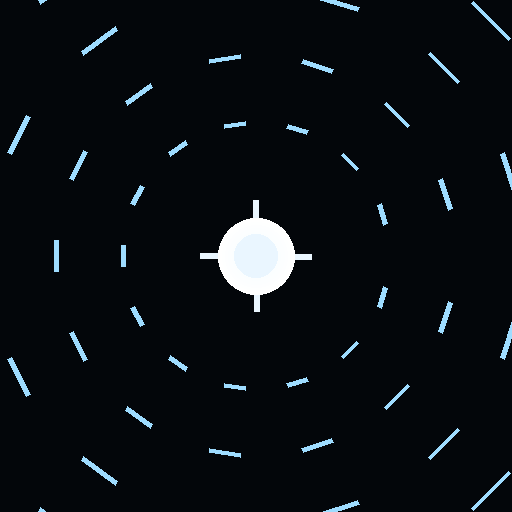
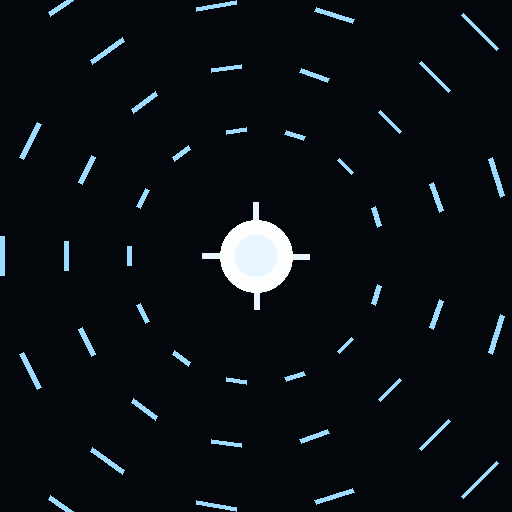
Add files via upload

diff --git a/index.html b/index.html
@@ -43,7 +43,7 @@
     padding:9px 10px; font-family:inherit; font-size:0.85rem; outline:none;
   }
   .field input:focus{ border-color:var(--g); box-shadow:0 0 8px var(--g-glow); }
-  .field small{ display:block; color:#2a5a3a; font-size:0.65rem; margin-top:3px; }
+  .field small{ display:block; color:#4a7a9a; font-size:0.65rem; margin-top:3px; }
   .section-tag{ font-size:0.65rem; color:var(--g); border-top:1px dashed var(--g-dim); padding-top:10px; margin:16px 0 10px; letter-spacing:2px; opacity:0.8;}
   #setup-btn{
     width:100%; margin-top:8px; background:transparent; border:1px solid var(--g);
@@ -116,7 +116,7 @@
   #chat-panel.open{ transform:translateX(0); }
   #chat-log{ flex:1; overflow-y:auto; padding:14px; font-size:0.78rem; line-height:1.5; }
   .msg{ margin-bottom:12px; }
-  .msg.user{ color:#6fffb0; }
+  .msg.user{ color:#7fd4ff; }
   .msg.vecna{ color:var(--g); }
   .msg .who{ display:block; font-size:0.62rem; color:var(--g-dim); letter-spacing:1px; margin-bottom:2px;}
   #chat-input-row{ display:flex; border-top:1px solid var(--g-dim); }
@@ -135,7 +135,7 @@
   #sec-panel button{ background:transparent; border:1px solid var(--g-dim); color:var(--g); padding:8px; font-family:inherit; font-size:0.72rem; cursor:pointer; width:100%; margin-bottom:8px; }
   #sec-panel button:hover{ border-color:var(--g); box-shadow:0 0 10px var(--g-glow); }
   #event-log{ flex:1; overflow-y:auto; font-size:0.68rem; border-top:1px dashed var(--g-dim); padding-top:8px; }
-  .evt{ margin-bottom:8px; color:#4fdc8a; }
+  .evt{ margin-bottom:8px; color:#6fc4e8; }
   .evt .t{ color:var(--g-dim); display:block; font-size:0.6rem; }
   .evt.alert{ color:var(--red); }
 
@@ -300,7 +300,10 @@
 
   <!-- Security panel -->
   <div id="sec-panel">
-    <h2>SEGURANÇA</h2>
+    <div style="display:flex; justify-content:space-between; align-items:center; margin-bottom:10px;">
+      <h2 style="margin:0;">SEGURANÇA</h2>
+      <button id="sec-panel-close" style="background:transparent; border:1px solid var(--g-dim); color:var(--g); width:30px; height:30px; border-radius:50%; cursor:pointer; font-size:1rem;">✕</button>
+    </div>
     <div class="row"><span>Status</span><strong id="sec-panel-status">DESARMADO</strong></div>
     <button id="arm-toggle-btn">ARMAR SISTEMA</button>
     <button id="check-now-btn">VERIFICAR CÂMERA AGORA</button>
@@ -310,6 +313,10 @@
 
   <!-- Chat panel -->
   <div id="chat-panel">
+    <div style="display:flex; justify-content:space-between; align-items:center; padding:10px 14px; border-bottom:1px solid var(--g-dim);">
+      <span style="font-size:0.75rem; letter-spacing:2px;">CHAT</span>
+      <button id="chat-panel-close" style="background:transparent; border:1px solid var(--g-dim); color:var(--g); width:30px; height:30px; border-radius:50%; cursor:pointer; font-size:1rem;">✕</button>
+    </div>
     <div id="chat-log"></div>
     <div id="chat-input-row">
       <input id="chat-input" placeholder="Fale com o VECNA...">
@@ -519,14 +526,14 @@
     say(`Estou online, ${OWNER_CALL}. Sistema de segurança em espera. O que você precisa?`);
   }
 
-  /* ============== ORB ANIMATION (stylized globe + geometric rings, canvas-only, no bitmaps) ============== */
+  /* ============== ORB ANIMATION (stylized wireframe skull + geometric rings, canvas-only, no bitmaps) ============== */
   let orbCtx, orbCanvas, orbT = 0, orbEnergy = 0.65;
 
   function seededRand(i){ return (Math.sin(i*12.9898)*43758.5453) % 1; }
-
-  // --- Procedural "city light" point cloud approximating a couple of glowing landmasses ---
-  // (Not a real map — a stylized suggestion of continents, since we avoid heavy map textures.)
   function seededRand2(i){ const x = Math.sin(i*78.233)*43758.5453; return x - Math.floor(x); }
+
+  // Nuvem de pontos "luzes de cidade" aproximando alguns continentes (estilizado, não é
+  // um mapa real — pra manter leve, sem textura de imagem pesada).
   function buildLandPoints(){
     const blobs = [
       { lat:42, lon:-95, latSpread:26, lonSpread:34, count:280 },  // "América do Norte"
@@ -541,7 +548,6 @@
         seed++;
         const rLat = (seededRand2(seed*2.13)-0.5)*2;
         const rLon = (seededRand2(seed*3.71)-0.5)*2;
-        // bias toward center for a denser core (like city clusters)
         const fall = 1 - Math.pow(Math.max(Math.abs(rLat),Math.abs(rLon)), 1.6);
         if(fall < 0.15) continue;
         const lat = (b.lat + rLat*b.latSpread) * Math.PI/180;
@@ -569,7 +575,7 @@
 
   function col(alpha){ return `rgba(143,214,255,${alpha})`; }
   function colAccent(alpha){ return `rgba(234,246,255,${alpha})`; }
-  function colWarm(alpha){ return `rgba(255,195,120,${alpha})`; }
+  function colWarm(alpha){ return `rgba(255,160,70,${alpha})`; }
 
   // A swirling light-streak ring: a tilted, squashed ellipse drawn as many short fading
   // segments so it reads as a comet-trail / motion-streak rather than a solid line.
@@ -585,8 +591,7 @@
       const a0 = ang, a1 = ang + arcSpan/segCount*0.92;
       orbCtx.beginPath();
       orbCtx.arc(0,0, rx, a0, a1);
-      const warmMix = (s % 7 === 0);
-      orbCtx.strokeStyle = warmMix ? colWarm(alphaBase*fade*0.95) : col(alphaBase*fade);
+      orbCtx.strokeStyle = col(alphaBase*fade);
       orbCtx.lineWidth = (7.8 + 9*fade) * devicePixelRatio;
       orbCtx.lineCap = 'round';
       orbCtx.stroke();
@@ -639,7 +644,7 @@
     const dpr = devicePixelRatio;
     const unit = Math.min(w, h*0.72) * 0.5;
     const energyBoost = 0.55 + orbEnergy*0.6;
-    const gR = unit * 0.46;
+    const gR = unit * 0.5;
 
     // --- Faint background bokeh particles (static, subtle parallax drift) ---
     for(let i=0;i<42;i++){
@@ -648,25 +653,25 @@
       const r = (1+seededRand2(i*3.1)*2.4) * dpr;
       orbCtx.beginPath();
       orbCtx.arc(px, py, r, 0, Math.PI*2);
-      orbCtx.fillStyle = (i%5===0) ? colWarm(0.25) : col(0.18);
+      orbCtx.fillStyle = col(0.18);
       orbCtx.fill();
     }
 
-    // --- Swirling light-streak rings around the globe (rotation motion) ---
+    // --- Swirling light-streak rings (movimento ao redor) ---
     drawAllStreakRings(cx, cy, unit, energyBoost);
 
-    // --- Sphere base (dark navy, subtle gradient for volume) ---
+    // --- Base da esfera (gradiente escuro, volume) ---
     const baseGrad = orbCtx.createRadialGradient(cx-gR*0.35, cy-gR*0.35, gR*0.05, cx, cy, gR);
-    baseGrad.addColorStop(0, `rgba(30,60,95,${0.9*energyBoost})`);
-    baseGrad.addColorStop(0.7, `rgba(8,20,38,${0.92*energyBoost})`);
-    baseGrad.addColorStop(1, `rgba(3,8,16,${0.95*energyBoost})`);
+    baseGrad.addColorStop(0, `rgba(70,45,110,${0.9*energyBoost})`);
+    baseGrad.addColorStop(0.7, `rgba(24,12,45,${0.92*energyBoost})`);
+    baseGrad.addColorStop(1, `rgba(8,4,15,${0.95*energyBoost})`);
     orbCtx.beginPath();
     orbCtx.arc(cx, cy, gR, 0, Math.PI*2);
     orbCtx.fillStyle = baseGrad;
     orbCtx.fill();
 
-    // --- Rotating "city light" landmasses (orthographic projection, front hemisphere only) ---
-    const rot = orbT * 0.22; // velocidade de rotação do globo
+    // --- "Luzes de cidade" girando (projeção ortográfica, só hemisfério da frente) ---
+    const rot = orbT * 0.22;
     orbCtx.save();
     orbCtx.beginPath();
     orbCtx.arc(cx, cy, gR, 0, Math.PI*2);
@@ -683,10 +688,10 @@
       const size = (0.9 + p.br*1.1) * depth * dpr;
       orbCtx.beginPath();
       orbCtx.arc(sx, sy, size, 0, Math.PI*2);
-      orbCtx.fillStyle = p.warm ? colWarm(depth*p.br*energyBoost) : colAccent(depth*p.br*0.85*energyBoost);
+      orbCtx.fillStyle = colAccent(depth*p.br*0.85*energyBoost);
       orbCtx.fill();
     }
-    // faint ocean grid lines for volume
+    // linhas de grade sutis (volume)
     for(let i=-2;i<=2;i++){
       const yy = cy + i*gR*0.34;
       orbCtx.beginPath();
@@ -697,7 +702,7 @@
     }
     orbCtx.restore();
 
-    // --- Atmospheric rim glow ---
+    // --- Brilho de atmosfera ---
     orbCtx.beginPath();
     orbCtx.arc(cx, cy, gR, 0, Math.PI*2);
     orbCtx.strokeStyle = colAccent(0.55*energyBoost);
@@ -843,6 +848,12 @@
   });
   document.getElementById('sec-panel-btn').addEventListener('click', () => {
     secPanel.classList.toggle('open');
+    chatPanel.classList.remove('open');
+  });
+  document.getElementById('sec-panel-close').addEventListener('click', () => {
+    secPanel.classList.remove('open');
+  });
+  document.getElementById('chat-panel-close').addEventListener('click', () => {
     chatPanel.classList.remove('open');
   });
   document.getElementById('chat-send').addEventListener('click', sendFromInput);

diff --git a/sw.js b/sw.js
@@ -1,4 +1,4 @@
-const CACHE_NAME = 'vecna-cache-v2';
+const CACHE_NAME = 'vecna-cache-v3';
 const ASSETS = [
   './index.html',
   './manifest.json',
